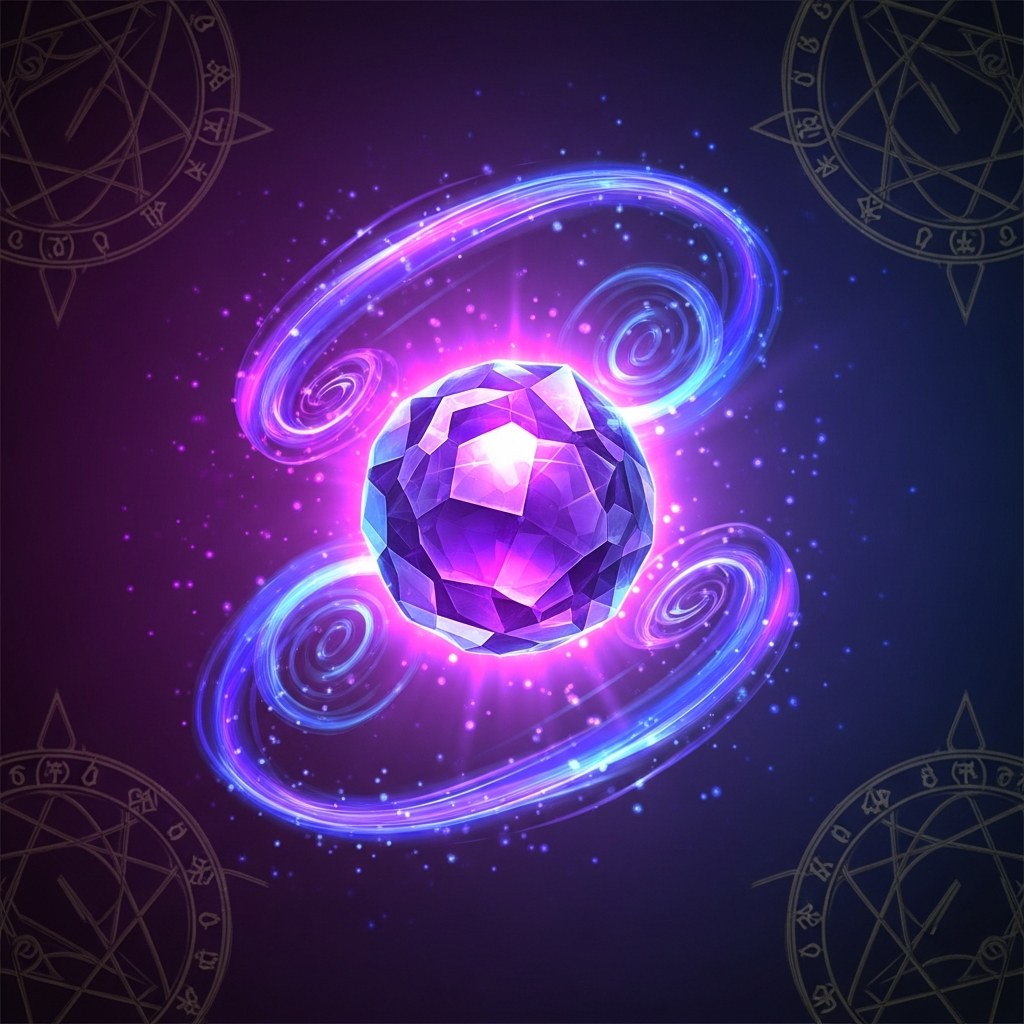
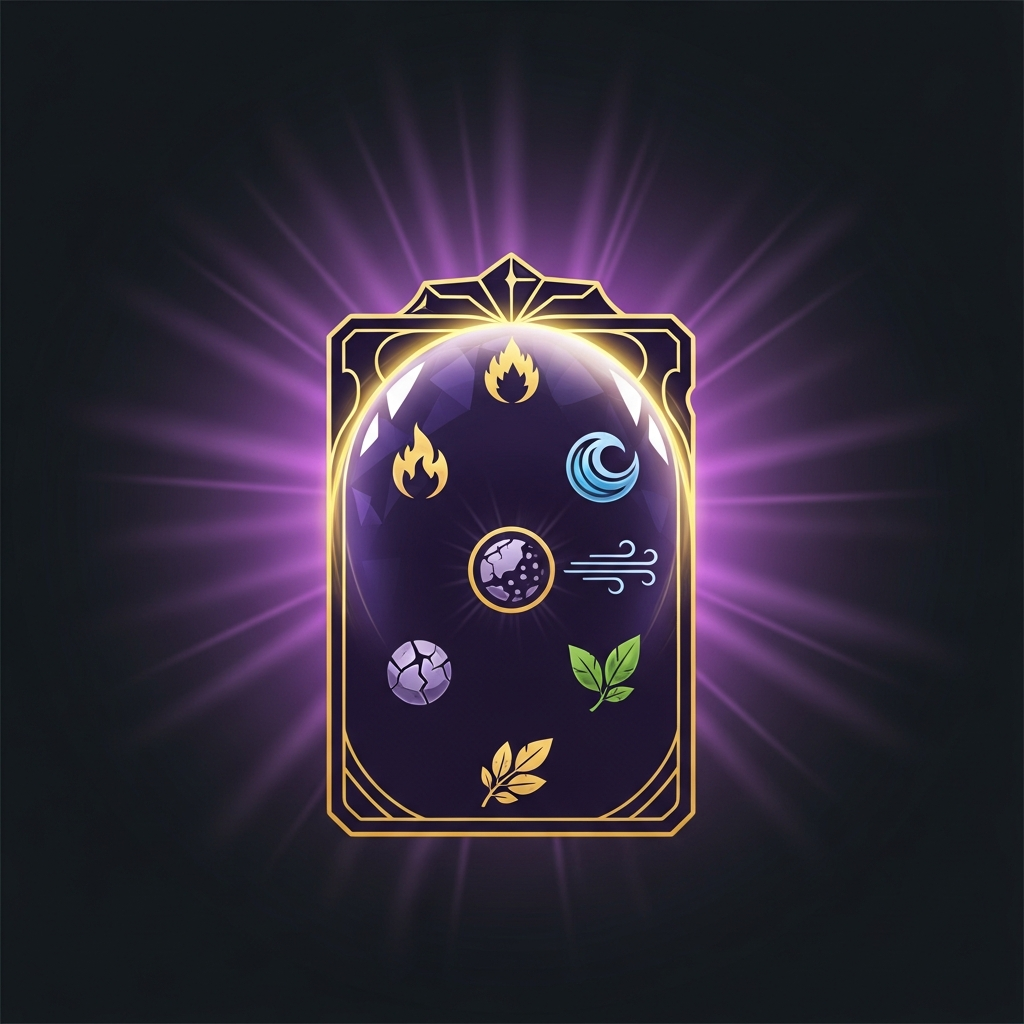
Add ability preview popup for commander cards
Introduces the AbilityPreviewDialog component and integrates it into the game board, enabling players to view detailed ability information by tapping an eye icon on commander cards. This involves updating client/src/pages/game-board.tsx to handle the new dialog and its associated state management for displaying ability descriptions, effects, phases, and costs.

Replit-Commit-Author: Agent
Replit-Commit-Session-Id: 7e1ff147-19f9-4e43-aa7e-3438e082ec0b
Replit-Commit-Checkpoint-Type: intermediate_checkpoint
Replit-Commit-Event-Id: 6820a203-3659-4e48-afdc-90e99d12227f
Replit-Commit-Screenshot-Url: https://storage.googleapis.com/screenshot-production-us-central1/3fac7dd3-b6fe-421e-afe0-4200271149f8/7e1ff147-19f9-4e43-aa7e-3438e082ec0b/7ZPGBDE
Replit-Helium-Checkpoint-Created: true

diff --git a/client/src/pages/game-board.tsx b/client/src/pages/game-board.tsx
@@ -980,6 +980,119 @@ function CardPreviewDialog({
   );
 }
 
+function AbilityPreviewDialog({
+  ability,
+  commanderElement,
+  open,
+  onClose,
+}: {
+  ability: CommanderAbility | null;
+  commanderElement: Element | null;
+  open: boolean;
+  onClose: () => void;
+}) {
+  if (!ability || !commanderElement) return null;
+
+  const config = elementConfig[commanderElement];
+  const Icon = config.icon;
+
+  const effectTypeLabels: Record<string, string> = {
+    direct_damage: "Direct Damage",
+    element_power_damage: "Elemental Power Damage",
+    buff_element_unit: "Buff Element Units",
+    extra_deploy: "Extra Deployment",
+    cycle_element_cards: "Cycle Element Cards",
+    block_effects: "Block Enemy Effects",
+    negate_and_halve: "Negate & Halve",
+    healing_factor: "Healing Factor",
+    draw_cards: "Draw Cards",
+    protect_element: "Protect Element",
+    debuff_enemy: "Debuff Enemy Units",
+    swap_units: "Swap Units",
+    revive_unit: "Revive Unit",
+    growth_buff: "Growth Buff",
+    prevent_ward: "Ward Prevention",
+    destroy_unit: "Destroy Unit",
+    add_shield: "Add Shield",
+    reduce_power: "Reduce Power",
+    first_strike: "First Strike",
+    add_evasion: "Add Evasion",
+    set_power: "Set Power",
+    restore_from_ward: "Restore from Ward",
+    heal_and_buff: "Heal & Buff",
+  };
+
+  return (
+    <Dialog open={open} onOpenChange={onClose}>
+      <DialogContent className="bg-slate-900 border-purple-500/30 max-w-sm" data-testid="dialog-ability-preview">
+        <DialogHeader>
+          <DialogTitle className={`flex items-center gap-2 ${config.color}`}>
+            <Icon className="w-5 h-5" />
+            {ability.name}
+          </DialogTitle>
+        </DialogHeader>
+
+        <div className="space-y-3">
+          <p className="text-slate-200 text-sm leading-relaxed">
+            {ability.description}
+          </p>
+
+          <div className="bg-slate-800/60 rounded-lg p-3 space-y-2">
+            <div className="flex items-center justify-between">
+              <span className="text-slate-400 text-xs uppercase tracking-wider">Phase</span>
+              <Badge className={`${ability.phase === "combat" ? "bg-red-600/80" : ability.phase === "deployment" ? "bg-blue-600/80" : ability.phase === "draw" ? "bg-cyan-600/80" : "bg-slate-600/80"}`}>
+                {ability.phase}
+              </Badge>
+            </div>
+
+            <div className="flex items-center justify-between">
+              <span className="text-slate-400 text-xs uppercase tracking-wider">Effect Type</span>
+              <span className="text-white text-sm font-medium">
+                {effectTypeLabels[ability.effect.type] || ability.effect.type}
+              </span>
+            </div>
+
+            {ability.effect.value !== undefined && (
+              <div className="flex items-center justify-between">
+                <span className="text-slate-400 text-xs uppercase tracking-wider">Value</span>
+                <span className="text-yellow-300 text-sm font-bold">{ability.effect.value}</span>
+              </div>
+            )}
+
+            {ability.effect.target && (
+              <div className="flex items-center justify-between">
+                <span className="text-slate-400 text-xs uppercase tracking-wider">Target</span>
+                <span className="text-white text-sm capitalize">{ability.effect.target}</span>
+              </div>
+            )}
+          </div>
+
+          <div className="flex items-center gap-3">
+            {ability.victoryCost > 0 && (
+              <div className="flex items-center gap-1.5 bg-green-900/40 border border-green-500/30 rounded-lg px-3 py-1.5">
+                <Trophy className="w-4 h-4 text-green-400" />
+                <span className="text-green-300 text-sm font-medium">-{ability.victoryCost} Advantage</span>
+              </div>
+            )}
+            {ability.withdrawalCost > 0 && (
+              <div className="flex items-center gap-1.5 bg-blue-900/40 border border-blue-500/30 rounded-lg px-3 py-1.5">
+                <Flag className="w-4 h-4 text-blue-400" />
+                <span className="text-blue-300 text-sm font-medium">-{ability.withdrawalCost} Withdrawal</span>
+              </div>
+            )}
+            {ability.victoryCost === 0 && ability.withdrawalCost === 0 && (
+              <div className="flex items-center gap-1.5 bg-slate-700/40 border border-slate-500/30 rounded-lg px-3 py-1.5">
+                <Sparkles className="w-4 h-4 text-yellow-400" />
+                <span className="text-slate-300 text-sm font-medium">Free to use</span>
+              </div>
+            )}
+          </div>
+        </div>
+      </DialogContent>
+    </Dialog>
+  );
+}
+
 interface CombatResultProps {
   player1Breakdown: CardPowerBreakdown[];
   player2Breakdown: CardPowerBreakdown[];
@@ -1434,6 +1547,7 @@ function AbilityCard({
   isMyTurn,
   usedThisTurn,
   onActivate,
+  onPreview,
 }: {
   ability: CommanderAbility;
   commanderElement: Element;
@@ -1442,6 +1556,7 @@ function AbilityCard({
   isMyTurn: boolean;
   usedThisTurn: boolean;
   onActivate: () => void;
+  onPreview: () => void;
 }) {
   const config = elementConfig[commanderElement];
   const isPlayable = canAfford && isCorrectPhase && isMyTurn;
@@ -1466,8 +1581,21 @@ function AbilityCard({
           </div>
         </div>
       )}
+
+      <Button
+        size="icon"
+        variant="ghost"
+        className="absolute top-1 right-1 z-20 w-5 h-5 min-h-0 rounded-full bg-slate-700/80 border border-slate-500/40"
+        onClick={(e) => {
+          e.stopPropagation();
+          onPreview();
+        }}
+        data-testid={`button-preview-ability-${ability.id}`}
+      >
+        <Eye className="w-3 h-3 text-slate-300" />
+      </Button>
       
-      <div className={`text-xs font-bold ${config.color} mb-1 truncate`}>
+      <div className={`text-xs font-bold ${config.color} mb-1 truncate pr-5`}>
         {ability.name}
       </div>
       
@@ -1518,6 +1646,7 @@ export default function GameBoardPage() {
   const [chatMessages, setChatMessages] = useState<ChatMessage[]>([]);
   const [spectatorCount, setSpectatorCount] = useState(0);
   const [previewCard, setPreviewCard] = useState<CardType | null>(null);
+  const [previewAbility, setPreviewAbility] = useState<CommanderAbility | null>(null);
   const [previousMyHP, setPreviousMyHP] = useState<number | undefined>(undefined);
   const [previousOpponentHP, setPreviousOpponentHP] = useState<number | undefined>(undefined);
   const [newlyDrawnCards, setNewlyDrawnCards] = useState<Set<string>>(new Set());
@@ -3334,6 +3463,7 @@ export default function GameBoardPage() {
                       isMyTurn={isMyTurn}
                       usedThisTurn={usedAbilitiesThisTurn.has(ability.id)}
                       onActivate={() => handleActivateAbility(ability)}
+                      onPreview={() => setPreviewAbility(ability)}
                     />
                   );
                 })
@@ -3348,6 +3478,12 @@ export default function GameBoardPage() {
         card={previewCard} 
         open={!!previewCard} 
         onClose={() => setPreviewCard(null)} 
+      />
+      <AbilityPreviewDialog
+        ability={previewAbility}
+        commanderElement={myCommander?.element || null}
+        open={!!previewAbility}
+        onClose={() => setPreviewAbility(null)}
       />
       {chatOpen && isMultiplayer && (
         <div className="fixed bottom-4 right-4 w-80 h-96 bg-slate-800 border border-purple-500/30 rounded-lg shadow-xl flex flex-col z-50">